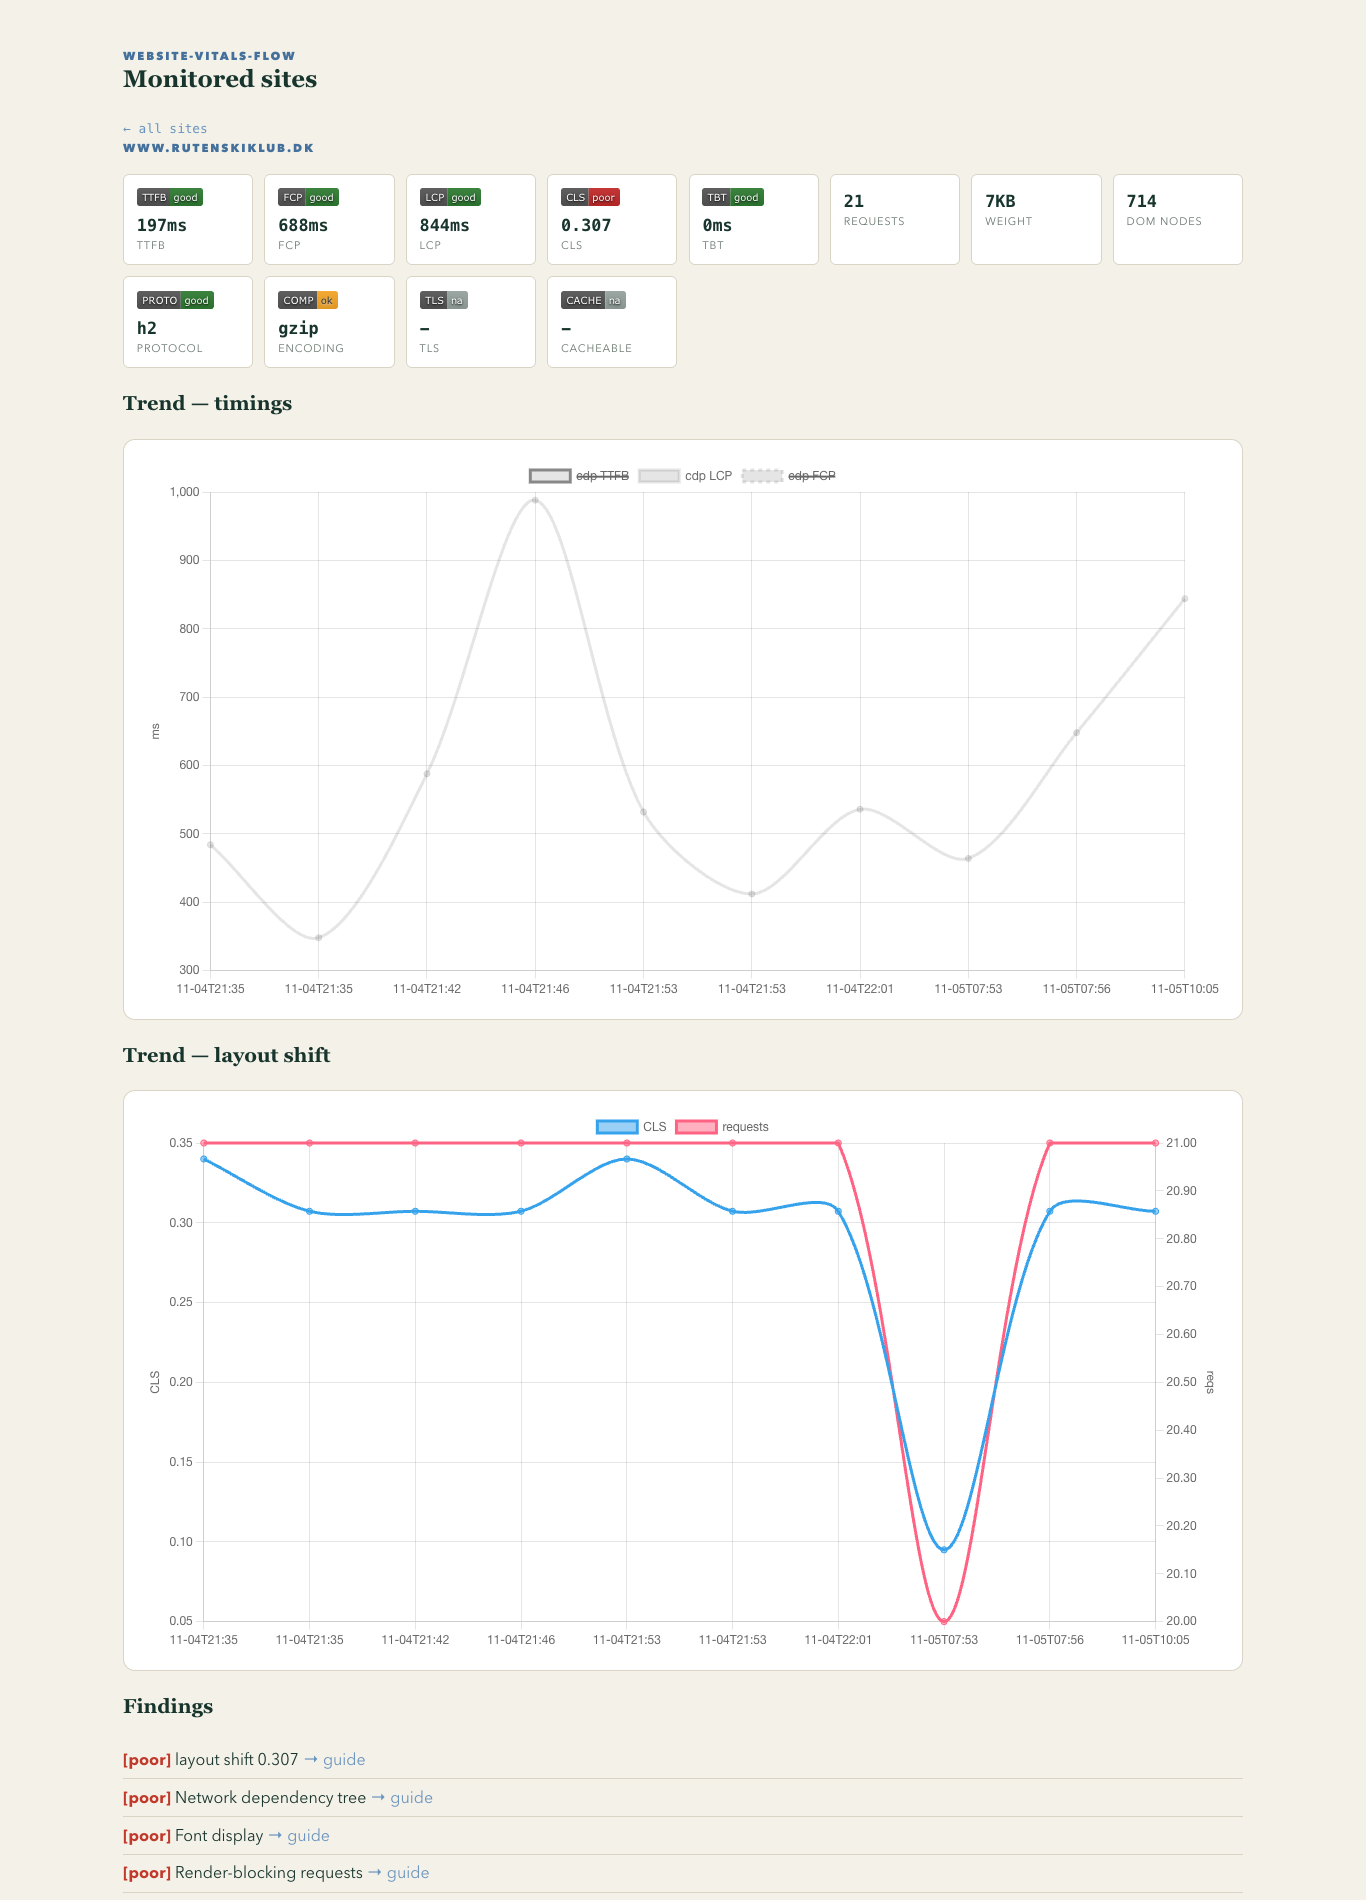
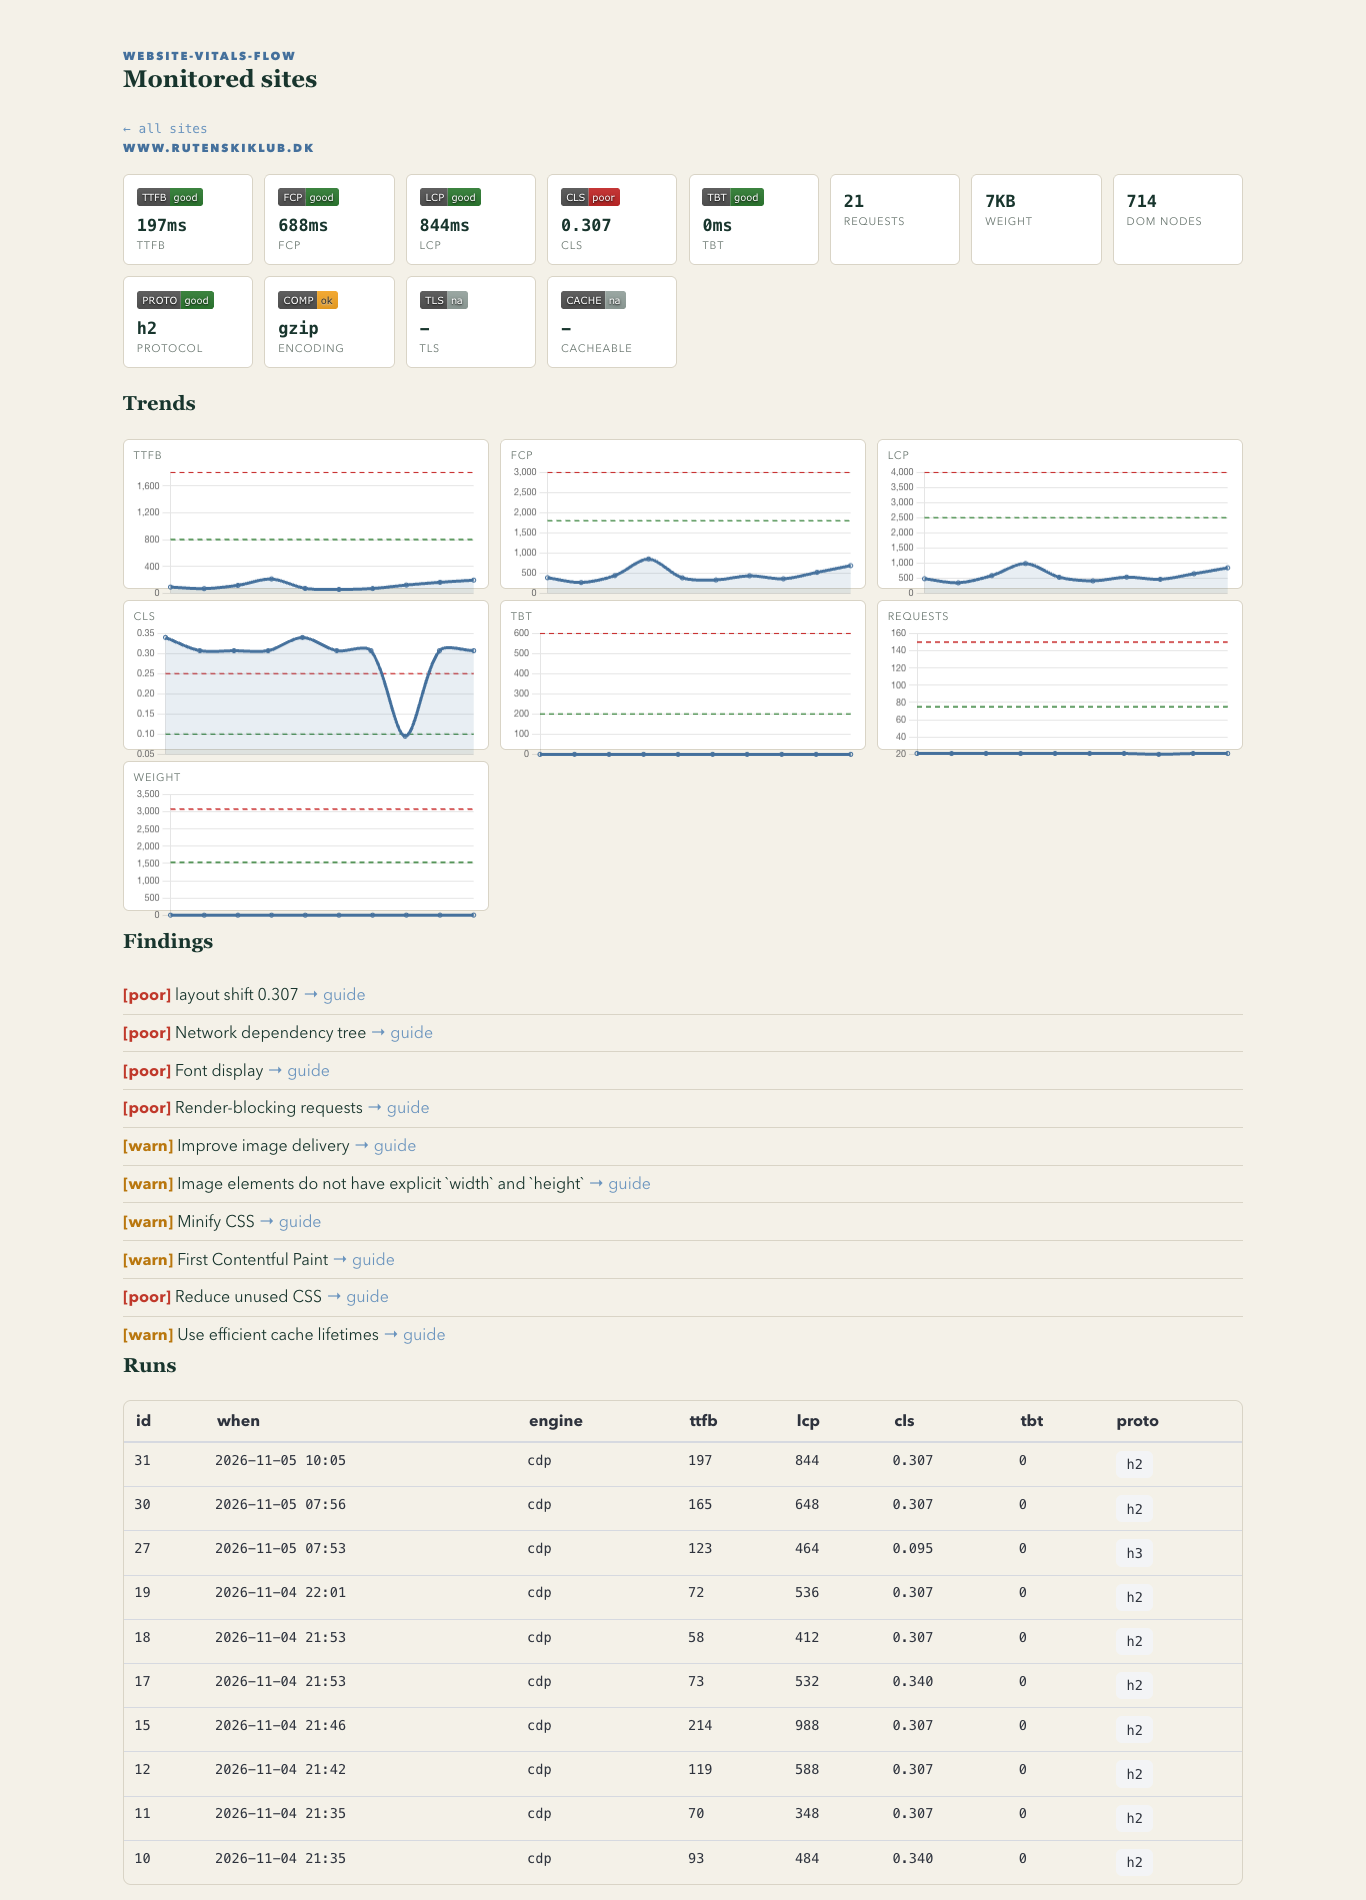
Trends: per-metric mini charts w/ threshold cutoffs + JS/CSS findings
- trend-grid: 7 small charts (TTFB/FCP/LCP/CLS/TBT/requests/weight)
  ~1/3 previous size; each plots the run series + dashed green good-
  cutoff and red poor-cutoff lines (web.dev bands; reqs 75/150,
  weight 1536/3072KB)
- findings: JS/CSS best-practice layer on cheap scans — js_weight
  >1.5MB, js_bundle >500KB, css_weight >300KB, css_bundle >200KB,
  js_count >15 — with web.dev links (lighthouse covers the deeper
  minify/unused audits on deep runs)
- screenshot regenerated

Generated with [Devin](https://devin.ai)

diff --git a/internal/server/static/app.js b/internal/server/static/app.js
@@ -12,7 +12,7 @@ document.addEventListener('alpine:init', () => {
       return this.band(id,v).replace('band-','');
     },
     fmtv(id,v){ return id==='cls'?(v==null?'-':v.toFixed(3)):(v==null?'-':Math.round(v)+'ms') },
-    chart2: null, det: null,
+    det: null, charts: {},
     age(ts){
       const ms=Date.now()-new Date(ts).getTime();
       const m=ms/6e4; if(m<60) return Math.max(1,Math.round(m))+'m';
@@ -85,32 +85,30 @@ document.addEventListener('alpine:init', () => {
     },
     draw(){
       const rs=[...this.runs].reverse();
-      const per={};
-      for(const e of ['cdp','lighthouse','psi']){
-        per[e]=rs.filter(r=>r.engine===e);
-      }
-      const ds=[];
-      for(const e of Object.keys(per)){
-        if(!per[e].length) continue;
-        ds.push({label:e+' TTFB',data:per[e].map(r=>r.ttfb_ms),borderColor:'#888',tension:.3,hidden:true});
-        ds.push({label:e+' LCP',data:per[e].map(r=>r.lcp_ms),tension:.3});
-        ds.push({label:e+' FCP',data:per[e].map(r=>r.fcp_ms),borderDash:[4,4],tension:.3,hidden:true});
-      }
       const labels=rs.map(r=>r.started_at.slice(5,16));
-      if(this.chart) this.chart.destroy();
-      this.chart=new Chart(document.getElementById('chart'),{type:'line',
-        data:{labels,datasets:ds},
-        options:{plugins:{legend:{display:true}},scales:{y:{title:{text:'ms',display:true}}}}});
-      // second chart: CLS + request count (separate scale from ms)
-      const c2=document.getElementById('chart2');
-      if(c2){
-        if(this.chart2) this.chart2.destroy();
-        this.chart2=new Chart(c2,{type:'line',
-          data:{labels,datasets:[
-            {label:'CLS',data:rs.map(r=>r.cls),tension:.3},
-            {label:'requests',data:rs.map(r=>r.request_count),tension:.3,yAxisID:'y1'}]},
-          options:{scales:{y:{title:{text:'CLS',display:true}},
-            y1:{position:'right',title:{text:'reqs',display:true},grid:{drawOnChartArea:false}}}}});
+      const KB=b=>b?Math.round(b/1024):null;
+      const specs=[
+        {id:'ttfb',label:'TTFB ms',v:r=>r.ttfb_ms,b:[800,1800]},
+        {id:'fcp',label:'FCP ms',v:r=>r.fcp_ms,b:[1800,3000]},
+        {id:'lcp',label:'LCP ms',v:r=>r.lcp_ms,b:[2500,4000]},
+        {id:'cls',label:'CLS',v:r=>r.cls,b:[0.1,0.25]},
+        {id:'tbt',label:'TBT ms',v:r=>r.tbt_ms,b:[200,600]},
+        {id:'reqs',label:'requests',v:r=>r.request_count,b:[75,150]},
+        {id:'weight',label:'weight KB',v:r=>KB(r.page_bytes),b:[1536,3072]},
+      ];
+      for(const sp of specs){
+        const el=document.getElementById('tr-'+sp.id); if(!el) continue;
+        if(this.charts[sp.id]) this.charts[sp.id].destroy();
+        const ds=[{label:sp.label,data:rs.map(sp.v),
+          borderColor:'hsl(210 39% 44%)',backgroundColor:'hsl(210 39% 44% / .12)',
+          tension:.3,pointRadius:2,fill:true}];
+        if(sp.b){ds.push(
+          {data:labels.map(()=>sp.b[0]),borderColor:'#2e7d32',borderDash:[5,4],pointRadius:0,borderWidth:1.4},
+          {data:labels.map(()=>sp.b[1]),borderColor:'#c62828',borderDash:[5,4],pointRadius:0,borderWidth:1.4});}
+        this.charts[sp.id]=new Chart(el,{type:'line',
+          data:{labels,datasets:ds},
+          options:{plugins:{legend:{display:false}},maintainAspectRatio:false,
+            scales:{x:{display:false},y:{ticks:{font:{size:9}}}}}});
       }
     }
   }));

diff --git a/internal/server/static/index.html b/internal/server/static/index.html
@@ -36,10 +36,16 @@
       <div class="metric-lbl"><span x-text="m.label"></span><span class="metric-age" x-show="m.age" x-text="m.age+' ago'"></span></div>
     </div></template>
   </div></template>
-  <h2 class="title is-5 section-heading">Trend — timings</h2>
-  <div class="box is-shadowless" style="border:1px solid var(--wvf-line)"><canvas id=chart></canvas></div>
-  <h2 class="title is-5 section-heading">Trend — layout shift</h2>
-  <div class="box is-shadowless" style="border:1px solid var(--wvf-line)"><canvas id=chart2></canvas></div>
+  <h2 class="title is-5 section-heading">Trends</h2>
+  <div class="trend-grid">
+    <div class=trend-cell><div class=metric-lbl>TTFB</div><canvas id="tr-ttfb"></canvas></div>
+    <div class=trend-cell><div class=metric-lbl>FCP</div><canvas id="tr-fcp"></canvas></div>
+    <div class=trend-cell><div class=metric-lbl>LCP</div><canvas id="tr-lcp"></canvas></div>
+    <div class=trend-cell><div class=metric-lbl>CLS</div><canvas id="tr-cls"></canvas></div>
+    <div class=trend-cell><div class=metric-lbl>TBT</div><canvas id="tr-tbt"></canvas></div>
+    <div class=trend-cell><div class=metric-lbl>requests</div><canvas id="tr-reqs"></canvas></div>
+    <div class=trend-cell><div class=metric-lbl>weight</div><canvas id="tr-weight"></canvas></div>
+  </div>
   <h2 class="title is-5 section-heading" x-show="findings.length">Findings</h2>
   <template x-for="f in findings"><div class="job-row" style="padding:.4em 0">
     <span x-bind:class="'sev-'+f.severity" x-text="'['+f.severity+']'"></span>

diff --git a/internal/server/static/style.css b/internal/server/static/style.css
@@ -69,3 +69,9 @@ body { min-height: 100vh; background: var(--wvf-paper); color: var(--wvf-ink); }
   color:var(--wvf-muted); }
 
 .metric-age { margin-left:.6em; color:var(--wvf-muted); font-size:.9em; }
+
+.trend-grid { display:grid; grid-template-columns:repeat(auto-fill,minmax(300px,1fr));
+  gap:.7em; margin-bottom:1.2em; }
+.trend-cell { border:1px solid var(--wvf-line); border-radius:6px; padding:.5em .6em .2em;
+  background:var(--wvf-bg-soft,#fff); height:150px; }
+.trend-cell canvas { height:120px; }

diff --git a/internal/findings/findings.go b/internal/findings/findings.go
@@ -213,6 +213,56 @@ func Analyze(res *measure.Result) []Finding {
 			}
 		}
 	}
+	// --- JS/CSS delivery budgets (best practice) ---
+	var jsB, cssB int64
+	var jsN, cssN int
+	var bigJS, bigCSS []string
+	for _, r := range s.Responses {
+		u := strings.ToLower(r.URL)
+		js := strings.Contains(r.MimeType, "javascript") || strings.HasSuffix(u, ".js")
+		css := strings.Contains(r.MimeType, "css") || strings.HasSuffix(u, ".css")
+		switch {
+		case js:
+			jsN++
+			jsB += r.EncodedBytes
+			if r.EncodedBytes > 500_000 {
+				bigJS = append(bigJS, short(r.URL))
+			}
+		case css:
+			cssN++
+			cssB += r.EncodedBytes
+			if r.EncodedBytes > 200_000 {
+				bigCSS = append(bigCSS, short(r.URL))
+			}
+		}
+	}
+	if jsB > 1_500_000 {
+		out = append(out, Finding{ID: "js_weight", Severity: measure.SevWarn, Category: "js",
+			Title: fmt.Sprintf("page ships %.1f MB of JavaScript across %d files", float64(jsB)/1e6, jsN),
+			Link:  "https://web.dev/articles/optimize-long-tasks"})
+	}
+	for _, u := range bigJS {
+		out = append(out, Finding{ID: "js_bundle", Severity: measure.SevWarn, Category: "js",
+			Title:  "very large JS bundle: " + u,
+			Detail: "split/lazy-load; single bundles >500KB inflate parse+eval and TBT",
+			Link:   "https://web.dev/articles/reduce-javascript-payloads-with-code-splitting"})
+	}
+	if cssB > 300_000 {
+		out = append(out, Finding{ID: "css_weight", Severity: measure.SevWarn, Category: "css",
+			Title: fmt.Sprintf("page ships %d KB of CSS across %d files", cssB/1024, cssN),
+			Link:  "https://web.dev/articles/reduce-unneeded-javascript"})
+	}
+	for _, u := range bigCSS {
+		out = append(out, Finding{ID: "css_bundle", Severity: measure.SevInfo, Category: "css",
+			Title: "large stylesheet: " + u,
+			Link:  "https://web.dev/articles/extract-critical-css"})
+	}
+	if jsN > 15 {
+		out = append(out, Finding{ID: "js_count", Severity: measure.SevInfo, Category: "js",
+			Title: fmt.Sprintf("%d JS files — many bundles", jsN),
+			Link:  "https://web.dev/articles/reduce-javascript-payloads-with-code-splitting"})
+	}
+
 	return out
 }
 
